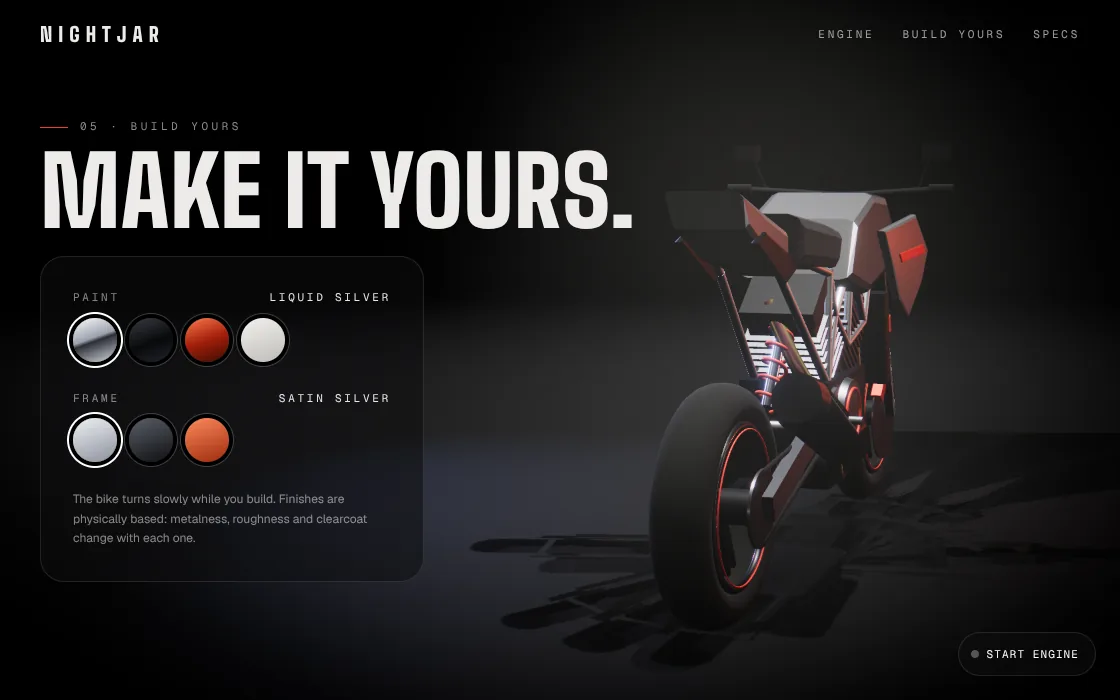
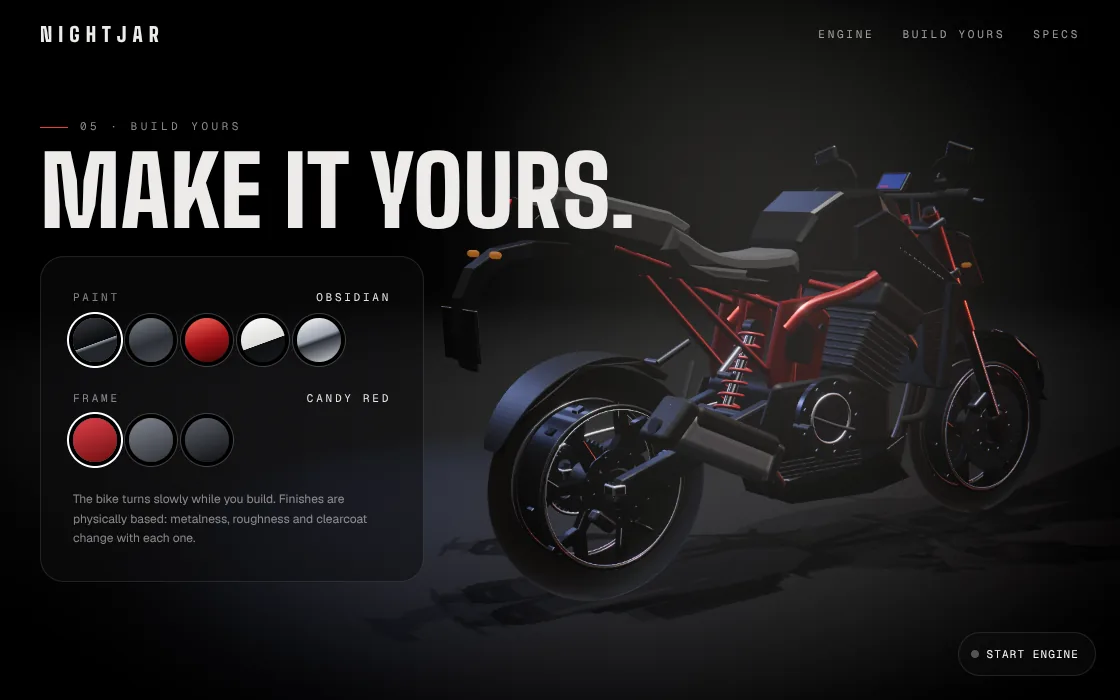
Nightjar case study: new bike screenshots and parallel-twin copy
Claude-Session: https://claude.ai/code/session_01MTUy4JFvKbdKSzmGBhvKyD

diff --git a/src/content/caseStudies.ts b/src/content/caseStudies.ts
@@ -154,7 +154,7 @@ export const caseStudies: CaseStudy[] = [
       "No downloaded model either. The bike, the lighting and the engine note are all generated in code.",
     ],
     approach: [
-      "The bike is built from a small geometry kit: rods between two points, swept tubes for the headers, coil springs, and bevelled side-profile extrusions that give the faceted tank its edges. Seven assemblies each have an explode vector.",
+      "The bike is built from a small geometry kit: rods between two points, swept tubes for the headers, coil springs, lathed tyre profiles, drilled rotors, and side-profile extrusions that taper across their width to give the tank, seat and tail their sharp, organic shapes. Seven assemblies each have an explode vector.",
       "One story-progress value drives everything: the camera keyframes, the exploded view, night mode with the headlight beam, and the callouts pinned to parts of the bike.",
     ],
     decisions: [
@@ -167,7 +167,7 @@ export const caseStudies: CaseStudy[] = [
         body: "A camera film offset keeps the bike clear of the text on wide screens and re-centres it on phones, without moving the camera's subject.",
       },
       {
-        title: "A V-twin with no samples",
+        title: "A parallel twin with no samples",
         body: "Pulses at the firing frequency, an uneven firing pattern, a sub-octave and an intake filter that opens with revs. Scroll speed and a hold-to-rev control drive it.",
       },
       {

diff --git a/src/lib/site.ts b/src/lib/site.ts
@@ -49,7 +49,7 @@ export const projects: Project[] = [
     slug: "nightjar",
     title: "Nightjar",
     summary:
-      "A fictional naked streetfighter modelled, lit and voiced entirely in code: a scroll-directed 3D showcase in a night garage, with an exploded view, a paint configurator and a synthesised V-twin.",
+      "A fictional naked roadster modelled, lit and voiced entirely in code: a scroll-directed 3D showcase in a night garage, with an exploded view, a paint configurator and a synthesised parallel twin.",
     tags: ["three.js", "React Three Fiber", "Post-processing", "Web Audio", "Next.js"],
     href: "https://nightjar-by-tiff.vercel.app",
     repo: "https://github.com/tiff-xt/nightjar",
